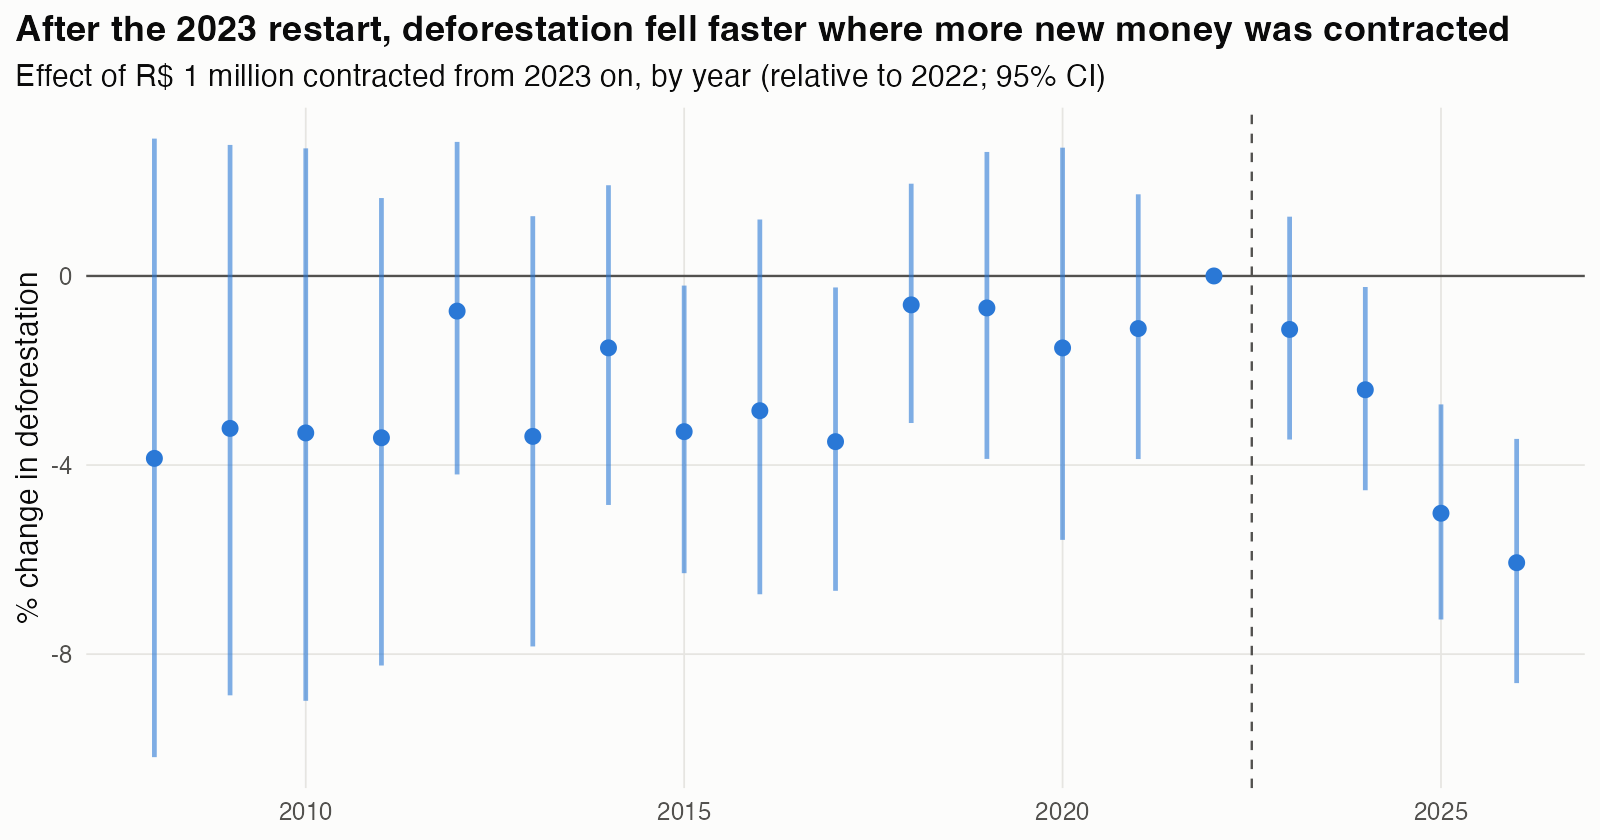
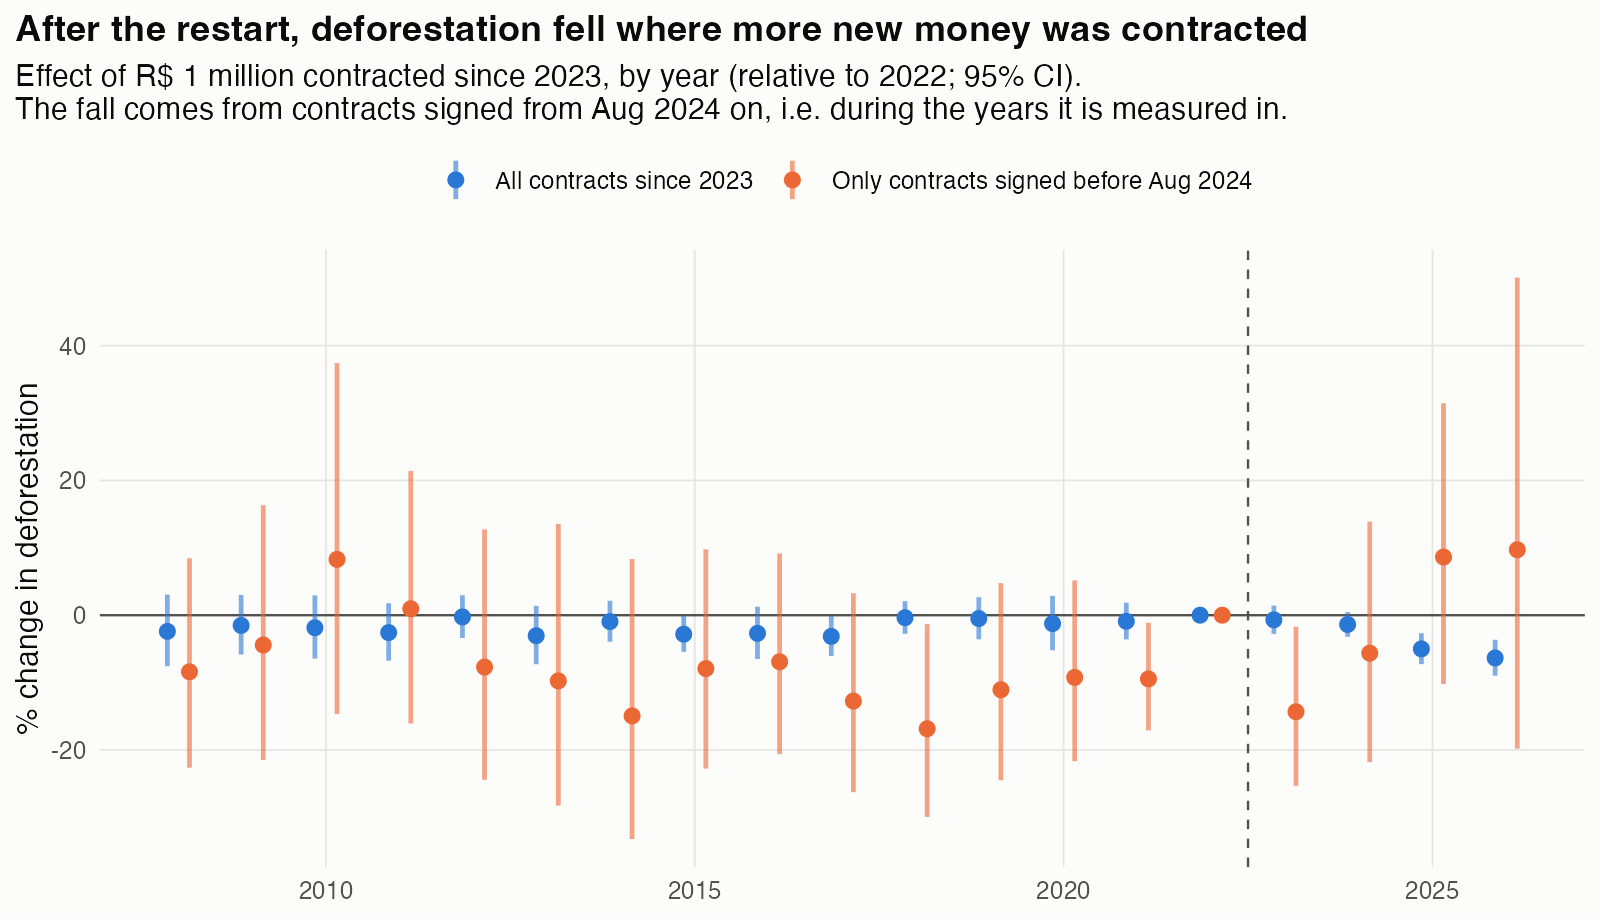
Restart headline with timing caveat; README corrections from review
- Figure 04 shows all contracts next to contracts signed before Aug 2024
- README: blacklist-controlled restart estimates, explicit timing caveat,
  pre-trends, contracted vs disbursed shares, 20 robustness variants incl.
  the significantly positive two-year lag, first-run IBAMA download

diff --git a/README.md b/README.md
@@ -10,20 +10,20 @@ This started as my seminar paper in the second semester of my economics bachelor
 
 ![Restart event study](figures/04_restart_event_study.png)
 
-**After the 2023 restart, deforestation fell faster in municipalities that contracted more new Fund money.** Each R$ 1 million contracted from 2023 on is associated with about **2 % less deforestation in 2024, 5 % in 2025 and 6 % in 2026**, relative to 2022. All three estimates are statistically significant. The comparison is within the same state and year, so it holds fixed everything that changed for the whole Amazon or a whole state at the same time.
+**After the 2023 restart, deforestation fell in municipalities that contracted more new Fund money.** Each R$ 1 million contracted since 2023 is associated with about **5 % less deforestation in 2025 and 6 % in 2026**, relative to 2022 (t ≈ −4 for both; 2024: −1 %, not significant). The comparison is within the same state and year, and it controls for each municipality's blacklist status by year, so it holds fixed everything that changed for the whole Amazon, a whole state or the priority municipalities at the same time.
 
-**Read this as suggestive, not as proof.** The restart coincided with the return of federal environmental enforcement under the new government, and new projects partly went to the municipalities where deforestation had peaked in 2019–2022. Some coefficients before 2018 are negative too, which means exposed municipalities were on a rising path before the restart. Part of the decline could therefore be a return to normal levels or enforcement targeted at the same places. Two checks are next (see *Next steps*).
+**The big caveat is timing.** The decline comes entirely from contracts signed **from August 2024 on**, mostly the R$ 150 million *União com Municípios* programme, which explicitly targets priority municipalities. Those contracts were signed *during* the years in which the decline is measured, so the money may have followed falling deforestation rather than caused it. Counting only contracts signed before August 2024 (orange in the figure), the effect disappears (+8 % in 2025, +9 % in 2026, not significant). The pre-2022 coefficients are also all negative (2015 and 2017 individually significant), so exposed municipalities were already on a rising path before the restart. Treat this as the most interesting pattern in the data, not as proof. The 2027 PRODES data will show whether the União municipalities keep diverging.
 
 ### The rest of the picture
 
 | Question | Design | Result |
 |---|---|---|
-| Does more money in a year mean less deforestation the next year? | Fixed effects, municipality + state × year | No. +5 % per R$ 1 million (p = 0.15); none of 21 robustness variants is significantly negative ([figure](figures/07_dose_response_robustness.png)) |
-| What happens after a municipality gets its first local project? | Staggered DiD (Callaway & Sant'Anna) | Deforestation keeps rising relative to not-yet-treated municipalities (+0.35 log points on average; [figure](figures/05_first_project_event_study.png)). This most likely reflects *targeting*: projects go to active deforestation frontiers |
-| Did deforestation rise where Fund money dried up in the 2019 freeze? | Event study on each municipality's money shortfall | No detectable rise ([figure](figures/06_freeze_event_study.png)). Payments on existing contracts continued through 2019–2022; only new contracts stopped |
+| Does more money in a year mean less deforestation the next year? | Fixed effects, municipality + state × year | No. +5 % per R$ 1 million (p = 0.15). None of 20 robustness variants is significantly negative; with a two-year lag the association is significantly *positive* (+12 %, p < 0.001), consistent with money following deforestation ([figure](figures/07_dose_response_robustness.png)) |
+| What happens after a municipality gets its first local project? | Staggered DiD (Callaway & Sant'Anna) | Deforestation keeps rising relative to not-yet-treated municipalities (+0.35 log points on average; [figure](figures/05_first_project_event_study.png)). The most plausible reading is *targeting* (projects go to active frontiers), though the design can't separate it from an effect |
+| Did deforestation rise where Fund money dried up in the 2019 freeze? | Event study on each municipality's money shortfall | No detectable rise ([figure](figures/06_freeze_event_study.png)), and the pre-period is not clean (2008, 2009 and 2017 significantly negative). Payments on existing contracts continued through 2019–2022; only new contracts stopped |
 | Does local Fund money bring more enforcement? | IBAMA flora fines as outcome | No effect |
 
-Taken together: local Fund money was **not** allocated at random. It followed deforestation, which is why naive comparisons (including my own in 2021) find a positive association. The restart provides the cleanest variation so far, and it points in the hoped-for direction.
+Taken together: local Fund money was **not** allocated at random. It followed deforestation, which is why naive comparisons (including my own in 2021) find a positive association. The restart is the most promising source of variation, but so far its timing doesn't allow a causal reading.
 
 ## Where the money went
 
@@ -31,7 +31,7 @@ Taken together: local Fund money was **not** allocated at random. It followed de
 
 ![Deforestation in the Legal Amazon](figures/02_deforestation.png)
 
-Only about **23 % of Fund money** went to projects that name the municipalities or indigenous lands where they work. The estimates above concern that local money. State programmes (30 %) and biome-wide or federal programmes (46 %, e.g. IBAMA enforcement and satellite monitoring) can't be tied to municipalities. They're absorbed by the state × year fixed effects.
+Only about **23 % of contracted Fund support** (19 % of the money disbursed so far) went to projects that name the municipalities or indigenous lands where they work. The estimates above concern that local money. State programmes (30 % of contracted support) and biome-wide or federal programmes (46 %, e.g. IBAMA enforcement and satellite monitoring) can't be tied to municipalities. They're absorbed by the state × year fixed effects.
 
 ![Map of local Fund money](figures/03_map_money.png)
 
@@ -42,7 +42,7 @@ Only about **23 % of Fund money** went to projects that name the municipalities 
 | Data | Spreadsheets copied by hand from the Fund's website, PRODES export 2008–2020 | Everything downloaded by script: all 156 project pages with 644 dated disbursements (they sum exactly to the Fund's published R$ 2,926 million), PRODES through 2026 |
 | Treatment | "Has a project": binary, no intensity | R$ per municipality per year (2025 prices), plus freeze and restart exposure |
 | Method | Two-way fixed effects (`plm`), plain staggered DiD | `fixest` with state × year fixed effects, Callaway–Sant'Anna for staggered adoption, event studies around the freeze and restart |
-| Code | One 1,800-line exploratory script | Small tested functions (86 unit tests), one entry point, about 40 seconds end to end |
+| Code | One 1,800-line exploratory script | Small tested functions (91 unit tests), one entry point, about 40 seconds end to end |
 
 The 2021 version is preserved under the tag [`v2021-seminar`](../../tree/v2021-seminar) and as a PDF in [`archive/2021/`](archive/2021/The_Amazon_Fund_2021.pdf).
 
@@ -67,7 +67,7 @@ Requires R ≥ 4.5 with `tidyverse`, `fixest`, `did`, `sf`, `geobr`, `httr2`, `r
 - **RStudio:** open `amazon-fund-deforestation.Rproj` and source `run_all.R`.
 - **Terminal:** `Rscript run_all.R` from the repo root.
 
-Raw downloads are cached in `data/raw/`, so reruns work offline; set `REFRESH <- TRUE` in `run_all.R` to fetch fresh data. Run the tests with `Rscript tests/testthat.R`.
+Raw downloads are cached in `data/raw/` (all committed except the 123 MB IBAMA file, which is downloaded on the first run), so later runs work offline; set `REFRESH <- TRUE` in `run_all.R` to fetch fresh data. Run the tests with `Rscript tests/testthat.R`.
 
 | Folder | Contents |
 |---|---|
@@ -78,14 +78,14 @@ Raw downloads are cached in `data/raw/`, so reruns work offline; set `REFRESH <-
 
 ## What this can and cannot say
 
-- **It covers local projects only** (about 23 % of the money). The effect of the Fund as a whole, including federal enforcement it financed, is absorbed by the year and state × year effects and can't be estimated this way.
+- **It covers local projects only** (about 23 % of contracted support). Money is in prices of PRODES year 2025 (Aug 2024–Jul 2025). The effect of the Fund as a whole, including federal enforcement it financed, is absorbed by the year and state × year effects and can't be estimated this way.
 - **Missing controls.** There are no weather controls: free sources would have needed far more downloading than the state × year effects justify. PRODES doesn't publish cloud cover per municipality. The cattle price index starts in 2010, so it enters only as a robustness check.
-- **The blacklist after 2022 is carried forward** from the last list with a free, machine-readable source. The 2023 and 2024 lists (Portarias MMA 834/2023 and 1.202/2024) are what the restart result most needs to control for.
+- **The blacklist after 2022 is carried forward** from the last list with a free, machine-readable source. The restart estimates control for blacklist status by year, but the 2023 and 2024 lists (Portarias MMA 834/2023 and 1.202/2024) are still missing.
 - Two staggered-adoption cohorts (2013, 2017) are small.
 - **Provisional:** the manual coverage review awaits a spot-check.
 
 ## Next steps
 
-1. Add the official 2023/2024 priority-municipality lists and re-estimate the restart, the check most likely to change the headline.
+1. Add the official 2023/2024 priority-municipality lists, and re-estimate the restart once PRODES 2027 is out: the test of whether the União municipalities keep diverging.
 2. Deeper identification for the restart: matching on pre-2019 trends or synthetic control.
 3. Possibly a new paper reporting the results.
